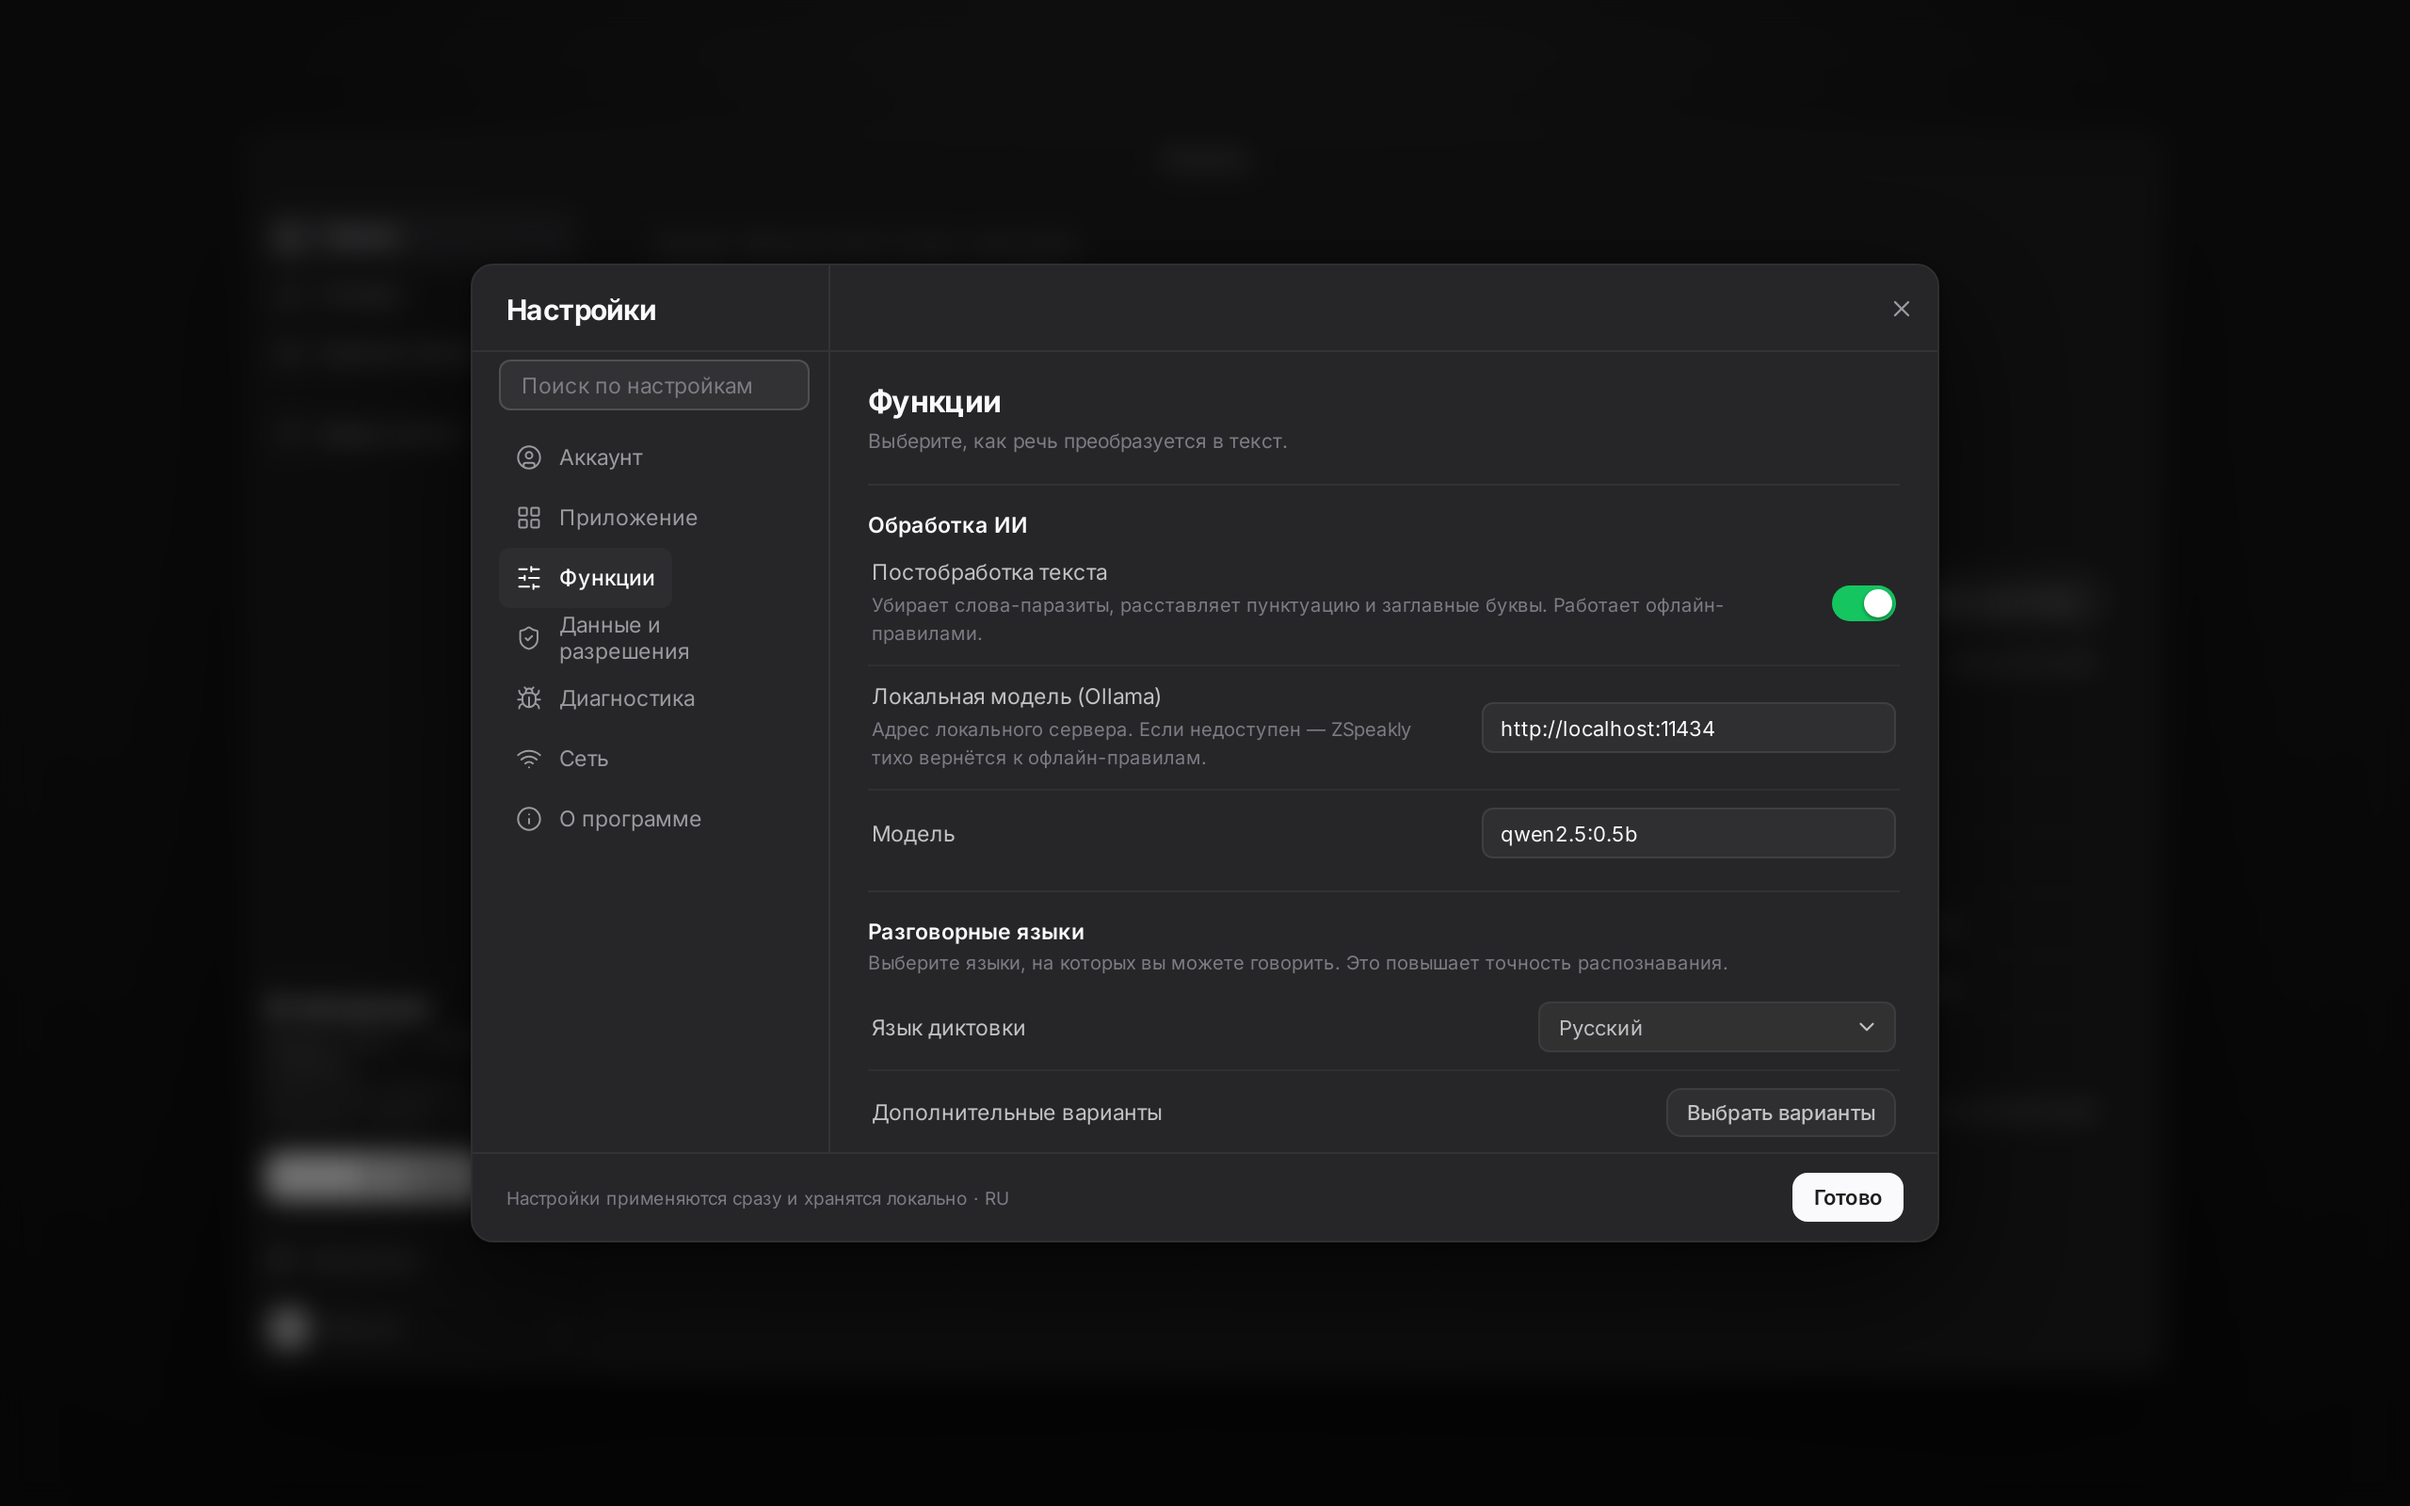
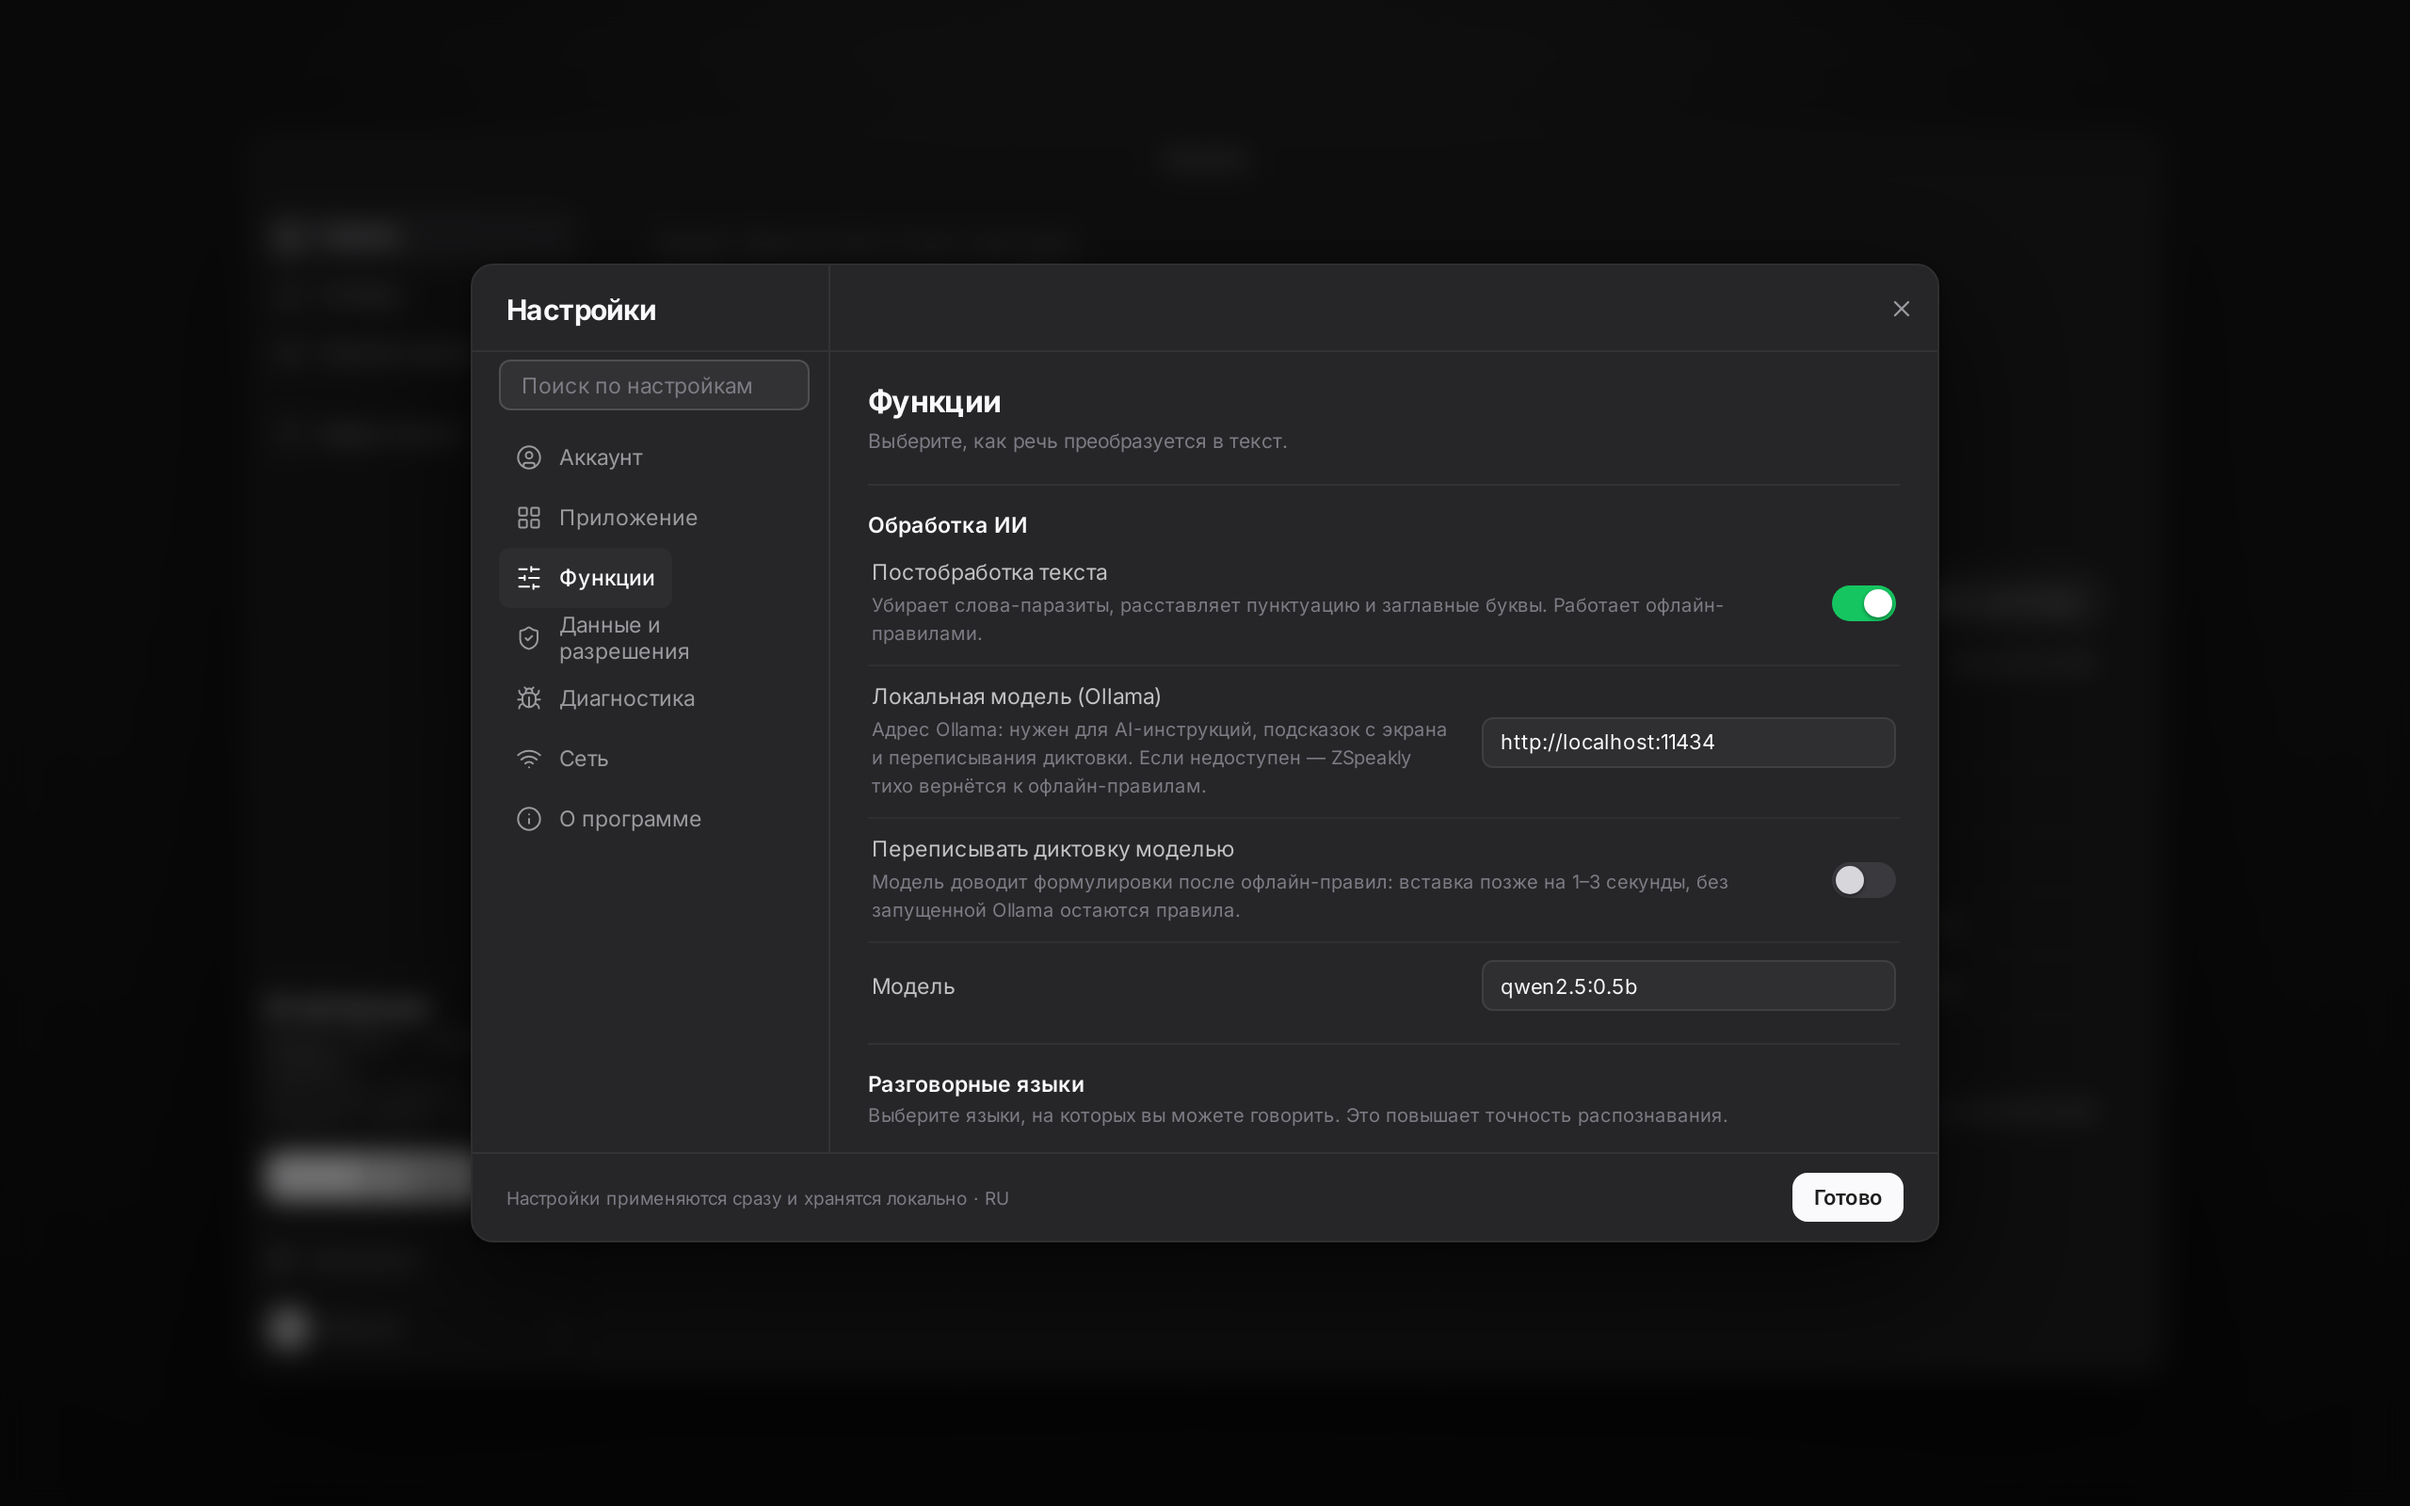
Скриншоты с новой галочкой, числа проверок (63 сценария / 184) и абзац в README

diff --git a/README.md b/README.md
@@ -41,7 +41,10 @@
 старые диктовки и записи буфера, «Звуковой отклик» звучит, «Эффект печати» проявляет текст по словам,
 «Скрывать пароли» маскирует значения, «Тема → как в системе» переключает палитру, «Автозапуск»
 прописывается в систему, «Свернуть в трей» передаётся главному процессу, горячие клавиши AI-инструкций работают в любом
-приложении, а не только пока открыт раздел. Статус моделей Whisper
+приложении, а не только пока открыт раздел. Чистка текста идёт офлайн-правилами; если запущена
+локальная Ollama и включена галочка «Переписывать диктовку моделью», она вдобавок доводит
+формулировки — вставка становится позже на 1–3 секунды, а без сервера остаются правила.
+Статус моделей Whisper
 обновляется сам после каждой загрузки — нажимать «Обновить» не нужно, а обновления приложения
 скачиваются в фоне и предлагают «Перезапустить» прямо в тосте.
 

diff --git a/docs/09-CODE-MAP.md b/docs/09-CODE-MAP.md
@@ -306,7 +306,7 @@ Windows (с ретраями, кэшем Electron, фолбэком в ZIP, ес
 ```bash
 npm test                  # 119 тестов (vitest + jsdom)
 npm run test:main         # 57 смоук-проверок main-процесса
-npm run test:ui           # E2E: обход кнопок, 63 сценария (185 проверок), контраст/вёрстка
+npm run test:ui           # E2E: обход кнопок, 63 сценария (184 проверки), контраст/вёрстка
 ZS_ONLY='диктовка' npm run test:ui   # один сценарий, пока чинишь именно его
 npm run check:ipc         # ни одного канала без обработчика
 npm run test:updater      # каналы обновлений
